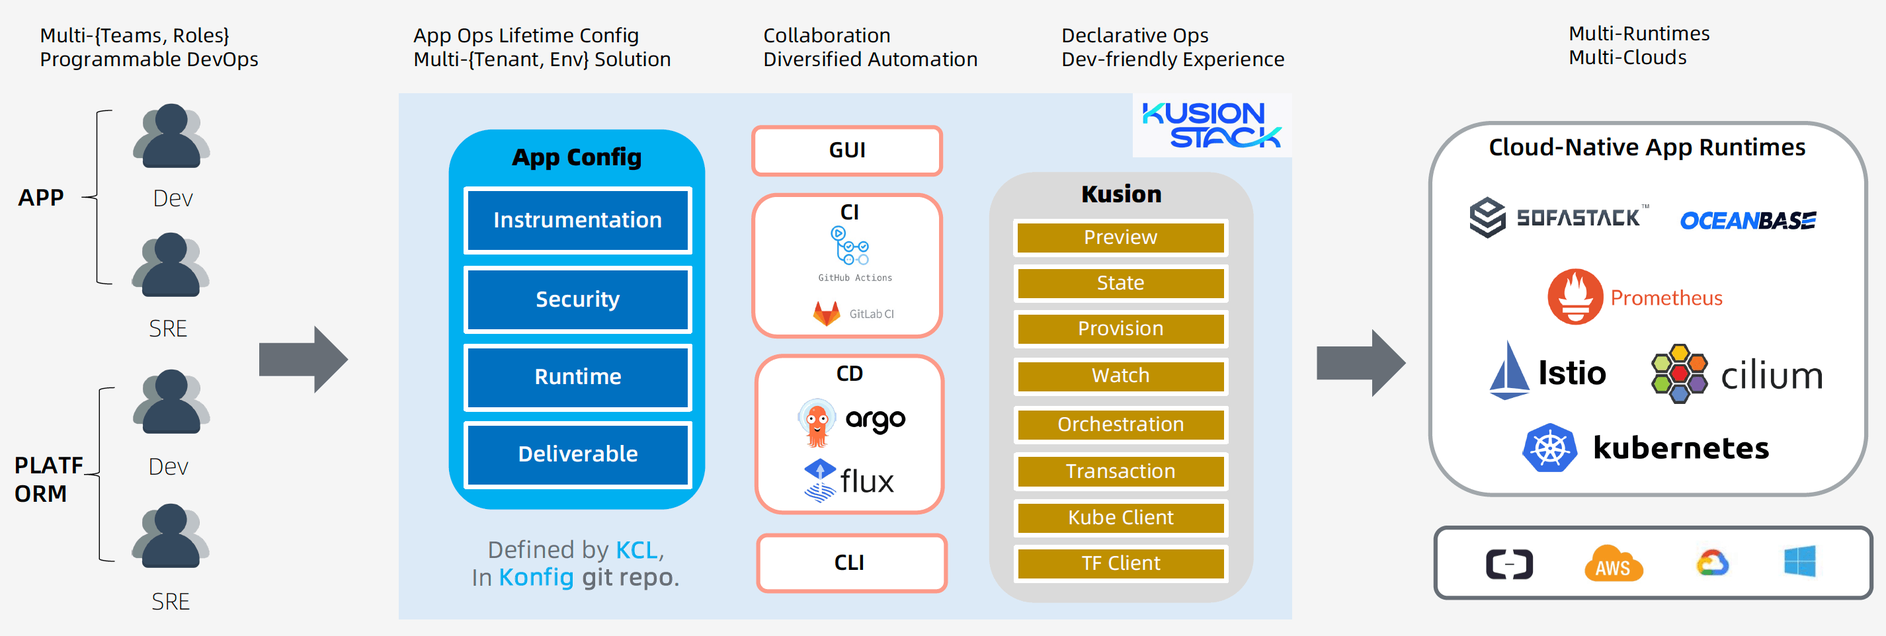
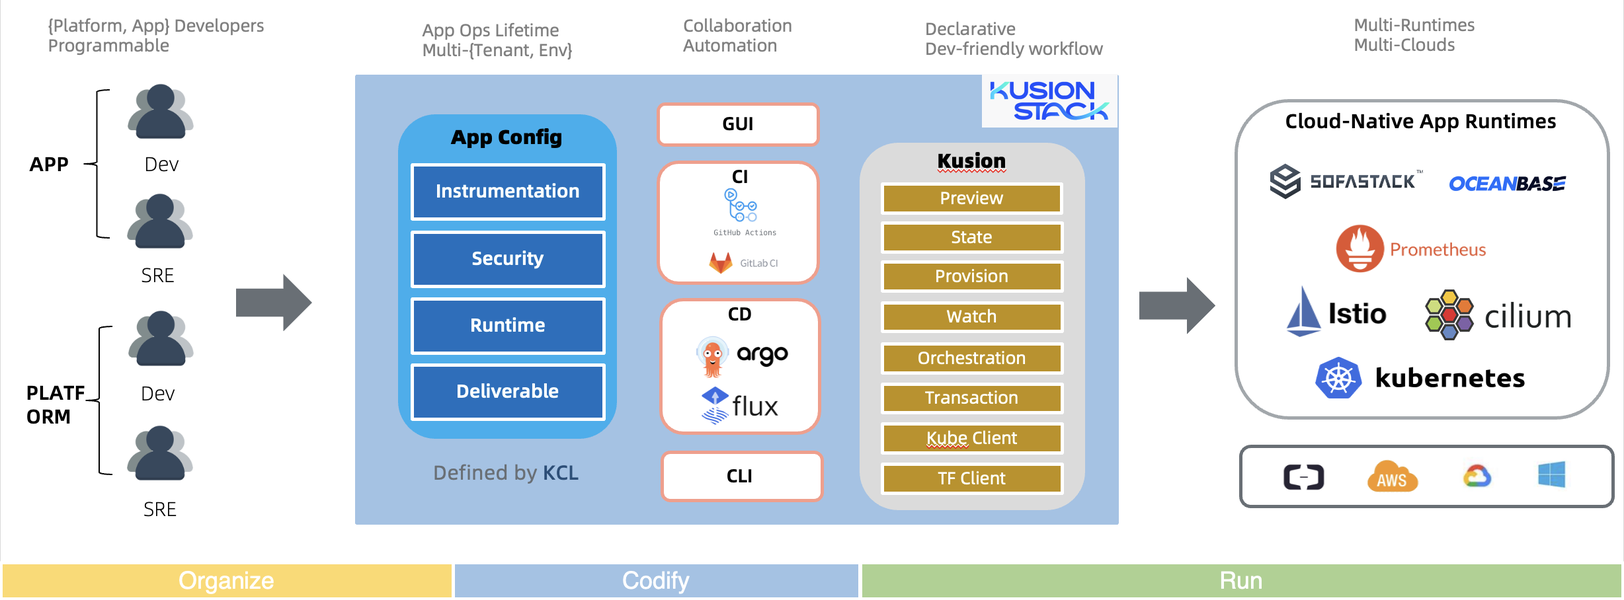
docs: polish kusion-intro.md

diff --git a/docs/user_docs/intro/kusion-intro.md b/docs/user_docs/intro/kusion-intro.md
@@ -5,142 +5,103 @@
 
 **KusionStack is an open-source cloud-native programmable technology stack!**
 
-KusionStack is a highly flexible programmable technology stack to enable unified application delivery and operation, inspired by the word Fusion, which aims to help enterprises build an application-centric configuration management plane and DevOps ecosystem.
+KusionStack is a highly flexible programmable technology stack to enable unified app delivery, inspired by the phrase 'Fusion on the Kubernetes', which aims to help enterprises build a config-based and self-service platform based on cloud-native technology for developers. 
 
-1. Fusion of hybrid scenarios of **private cloud**, **hybrid cloud**, and **multi-cloud** 
-2. Fusion of hybrid platform technologies of **cloud-native** and a variety of other platform technologies
-3. Fusion of enterprise-level demands of **multi-project**, **multi-team**, **multi-role**, **multi-tenant**, and **multi-environment**
+To put it simply, KusionStack aims to help developers:
 
-Based on the concept of Platform as Code, developers can quickly unify the full configuration schemas, constraints, policies and configs across the application life cycle, work with the **hybrid technologies and cloud environment**, go through the **end-to-end workflow** from programming to launching, and truly achieve **write once, deliver anywhere**.
+1. **Codify** and **unify** configurations and policies around a modern app delivery along with an OCI image
+2. **Organize** application's resources and ensure secure access by **identities** throughout the entire delivery process
+3. Streamline app delivers workflow to **Kubernetes** and **clouds** with a dev-friendly experience
+
+Based on the concept of Platform as Code, developers could define the app delivery life cycle with a **unified organized and operate interface**, fully leverage the **hybrid capability of Kubernetes and cloud**, go through the **end-to-end delivery workflow**, and truly achieve the **centralized definition, arbitrary delivery**.
 
 ![](/img/docs/user_docs/intro/kusion-stack-0.png)
 
-KusionStack originated from the large-scale platform engineering practice within Ant Group and has been widely used in Ant Group's SaaS application delivery, computing and data infrastructure delivery, site construction, database operation and other operation scenarios, helping Ant Group to complete upgrades from the traditional operation model to the programmable and collaborative DevOps model.
 
+## What can be done with KusionStack?
 
-## Why develop KusionStack？
+We have two perspectives to perceive the value of KusionStack.
 
-Represented by Kubernetes, Cloud-native technology is becoming the first-party technology for modern enterprises and cloud vendors and has formed a global community ecology. Kubernetes supports an API definition mechanism that is final-state, data-oriented, a definition and extension mechanism which is declarative, versioned, resource-schema-oriented, and a server-side verification and simulation mechanism which is terminable and predictable. These excellent designs make it naturally have consistent API access mechanisms, perfect resource definition and extension capabilities, and client-friendly verification and execution mechanisms, natively possessing the typical capabilities of traditional third-party API access technology. But from another point of view, modern applications will also rely on non-cloud-native PaaS and IaaS services for a long time, which makes the application delivery and operation in the enterprise rely on scattered and changing technologies and platforms, and complex and fragmented working interfaces and processes. In addition, Kubernetes is a platform for building platforms. For non-expert application developers, the technical complexity of Kubernetes itself and a growing number of resource-oriented user interfaces restrict the construction of a broader DevOps ecosystem openly and democratically within the enterprise. Finally, there is a lack of effective means on the platform side to open growing platform capabilities to application developers in a simple, unified and manageable manner, and to reduce the cognitive burden of application developers through high app-oriented abstraction, enabling them to complete app delivery and operation in a self-service way.
+As an out-of-box product, KusionStack helps to:
++ **Config** your app with an app-centric model above Kubernetes and cloud resources
++ **Deliver** your app with dev-friendly tools and IDE products to Kubernetes and clouds
 
-At Ant Group, we have experienced all the above problems. We have built large-scale [Bare Metal](https://en.wikipedia.org/wiki/Bare-metal_server) Kubernetes clusters, a large-scale service mesh system based on [MOSN](https://github.com/mosn/mosn) sidecar, but also rely heavily on PaaS services such as middleware and some IaaS cloud services. In the field of operation, we have made many attempts to adapt to scale, complexity and rapid changes, such as using cloud-native tools to improve the classic ops platforms, such as adopting the Kubernetes community's native YAML-based DevOps solution, but none of them can meet the needs of internal application-centric, high-efficiency, low-awareness, and taking account of the open, flexible, scalable, and portable large-scale delivery and operation requirements.
+As an engineering stack, KusionStack helps to:
++ **Build** your apps' abstraction models with the **collaboration** of multiple roles 
++ **Orchestrate** your automation workflow to **hybrid** resources across Kubernetes and clouds
++ **Integrate** into your homegrown or public systems
 
 ![](/img/docs/user_docs/intro/kusion-stack-1.png)
 
 
-## Why use KusionStack?
+## KusionStack Highlights
 
-KusionStack fusions platform developers, application developers and [SRE](https://en.wikipedia.org/wiki/Site_reliability_engineering) with the platform engineering concept, through a one-stop technology stack targeting "modeling on platforms, compile to cloud". KusionStack enables the platform developers to open platform capabilities simply and flexibly, allowing application developers to design app-centric abstraction, reduce the cognitive burden on infrastructure, as well as give them sufficient flexibility. Overall, KusionStack, like other as-Code technologies, provides the convenience of **versioned**, **auditable**, **reusable**, **replayable** and **sharable**, and at the same time KusionStack is committed to building **application-centric abstraction**, **consistent management tools and automation mechanisms** as well as **simpler end-to-end user experience and workflow**, hoping to approach the state:
+**App-centric**
+App is the first-class citizen of KusionStack. KusionStack provides an out-of-the-box **app delivery model** based on best practices and also supports customizing your application models. With the simple application model definition, KusionStack provides sufficient automation support to help developers turn the blueprint into reality.
 
-+ Fusion of **platform technologies**: With a variety of cloud-native and non-cloud-native technologies and services, the application operation life cycle is modeled and configured based on differentiated PaaS and IaaS APIs. Shipping with the container image, applications can be configured in one place and delivered anywhere.
-+ Fusion of  **multiple roles**: Help the platform and application developers break the boundaries and go forward together with each other, through the engineering way of "platform developers produce the base models, and the application developers define their application model and configs", the division of labor and collaboration jointly form a DevOps system around application delivery.
-+ Fusion of **workflow**: For diverse operation scenarios, based on scalable project structure and programming support, the typical end-to-end workflow includes the development phase: manual or automatic code modification, testing, commit, PR submission and review; CI phase: integration testing and deployment verification; CD phase: runtime-oriented preview, apply, observation, etc.
-+ Fusion of **operation methods**: Adopt platform-based CI, CD, and CDRA capabilities to form an end-to-end GitOps solution, and also provide toolchains, service APIs, and GUI products, which can be supplied on demand and used flexibly, taking account of the needs of internal private clouds, external hybrid clouds and multi-cloud scenarios, gradually replace fragmented products with a set of cohesive solutions.
-+ Fusion of **technical concepts**: Create more possibilities in terms of diverse platform technologies and roles through open operation concepts, culture and open source technologies.
+**Flexible**
+Based on the self-developed programming language **KCL**, the powerful engine and a variety of extensible mechanisms, KusionStack provides full flexibility for developers undertaking ops work. KusionStack can meet the needs of individual developers, small teams and large groups with the good scalability and manageability through the standard **project** and **stack** structures. The pure client-side solution also ensures good portability and the rich APIs make it easier to integrate and automate. 
+
+**Collaborative**
+In addition to the general advantages of as-code solutions, KusionStack hopes to help to define the application model with the platform team and application team collaboratively. With the **separation of concerns**, different roles could focus on their work based on their knowledge and responsibility. Through such a division of labor, the platform team can better manage the differences and complexities of the platform, and app developers could participate in ops work with less cognitive load.
 
 
-## Composition of KusionStack
+## KusionStack Composition
 
-KusionStack fusions the platform and the application developers through the platform engineering concept, technology and workflow to achieve a balance between platform capability openness and application self-service operation efficiency. KusionStack builds a programmable, extensible, and portable technology stack based on language and toolchains. Its core components include:
+KusionStack consists of a series of tools and products. Among them, KCL provides programmability similar to modern programming languages, Kusion turns blueprints into reality with powerful engines and orchestration capabilities, and Konfig holds app delivery models and components. You can choose to use one of them, such as KCL, or use them in combination.
 
 + [KCL](https://github.com/KusionStack/KCLVM): Configuration and policy programming language for application developers, along with its protocols, toolchains and IDE plugins
-+ [Kusion](https://github.com/KusionStack/kusion): Operation engine, toolchains, service, IDE workspace and community technology integration suite
-+ [Konfig](https://github.com/KusionStack/konfig): Shared repository of application models and base models, and CI suite for GitOps workflows (such as GitHub Actions suite)
-
-It can also be divided from the perspective of the language protocol layer, operation capability layer, and user interface layer, as shown in the following figure:
-
-![](/img/docs/user_docs/intro/kusion-arch.png)
-
-
-## KusionStack core features
-
-**Flexible organization, modeling on demand**
-
-KusionStack works in a pure client-side way, through the simple engineering way of directories and files, provides a scalable engineering structure based on **project** and **stack** design and supports flexible management of the on-demand organization. Developers can write **configuration (config)**, **type (schema)**, **function (lambda)** and **policy (rule)** through the record and functional language KCL. KusionStack provides an out-of-the-box cloud-native application model, allowing users to quickly start the journey of cloud-native delivery. In addition, KusionStack is not limited to a single, fixed model or standard. Developers can write base models and application models through KCL's modular language features, which helps the platform side quickly reveal capabilities through "building blocks", and application developers can define application models as needed. Finally, KusionStack meets the multi-tenant and multi-environment configuration writing requirements in the enterprise through isolated configuration blocks with rich auto merging strategies. KusionStack helps enterprises flexibly respond to complex scenarios and rapid changes.
-
-**Write once, deliver anywhere**
-
-KusionStack helps application developers centrally converge the full configuration around their application, and deliver the application to the private cloud, hybrid cloud, and multi-cloud environment through the simple method of "container image with KCL code". End users work with abstract application models, which are automatically interpreted by renders for different runtimes at different platforms and generate low-level resource models at compile time. At execution time, the Kusion engine applies and manages hybrid resources of various runtimes including Kubernetes and Terraform. The Kusion engine natively supports multi-cluster resource management and manages non-Kubernetes resources by integrating Terraform. Finally, KusionStack natively supports automation mechanisms such as command line execution, CI pipelines, service (to be open-source) APIs, and GUI product (to be open-source), and can meet any delivery needs through flexible automation solutions.
-
-**Enterprise practice, ecological integration**
-
-Relying on the accumulation of practice within Ant Group, KusionStack provides an end-to-end workflow from development to delivery on Platform APIs:
-
-1. Platform integration: Self-generate KCL schema code through the [KCL-OpenAPI](https://github.com/KusionStack/kcl-openapi) tool
-2. Dev assistance: Rapid development and testing through KCL IDE plug-ins, lint, vet, compile, test tools
-3. CI pipelines: Accurate dependency analysis and automated integration test through KCL dep and test tools
-4. CD execution: Use the KusionCtl tool to implement authentication, RBAC permission configuration, and the workflow of preview, apply, observe, and destroy
-
-In addition, KCL provides CRUD APIs, multi-language SDK and a dynamic plugin expansion mechanism to meet the personalized automation needs in the enterprise. KusionStack will continue to improve the extensibility and integrate with more community technologies.
-
++ [Kusion](https://github.com/KusionStack/kusion): Operation engine, toolchains, service, IDE workspace
++ [Konfig](https://github.com/KusionStack/konfig): Shared repository of application models and components, and CI suite for GitOps workflows (such as GitHub Actions suite)
 
 ## KusionStack vs. X
 
-KusionStack is a pure client-side cloud-native programmable technology stack, which aims to define an application-centric abstract interface and an end-to-end management mechanism. Compared with other technologies, its characteristics can be summarized as:
-
-+ **Application-centric**: Meet the abstraction and definition requirements of differentiated application models
-+ **Pure client solution**: Lightweight, extensible, flexible, and portable
-+ **Hybrid resources and cloud**: Provides resource abstraction and management functions on multi-runtime and multi-cloud
-+ **Highly automatable**: Provide rich APIs, SDK, and extension mechanisms to meet the automation needs of developers and platforms
+KusionStack is a pure client-side programmable technology stack, which aims to define an app-centric delivery model and an end-to-end automation workflow.
 
 ![](/img/docs/user_docs/intro/kusion-vs-x.png)
 
-KCL is a modern high-level domain language, which is a compiled, static and strongly typed language. It provides developers with the ability to write configuration (config), modeling abstraction (schema), business logic (lambda), and environmental policies (rule) as the core elements through recording and functional language design. 
-
-KCL tries to provide runtime-independent programmability and does not natively provide system functions such as threads and IO, but supports functions for cloud-native operation scenarios, and tries to provide stable, secure, low-noise, low-side effect, easy-to-automate and easy-to-govern programming support for solving domain problems.
-
-Unlike client runtime written in GPL, KCL programs usually run and generate low-level data and are integrated into the client-side runtime access tools (such as KusionCtl), which can provide a left-shifted stability guarantee by testing and validation of KCL code separately before pushing to runtime. KCL code can also be compiled into a wasm module, which could be integrated into the server runtime after full testing. 
-
-![](/img/docs/user_docs/intro/kcl.png)
-
-KusionStack provides an operation engine and API layer that is completely decoupled from KCL, which is designed to work with hybrid resources. Kusion Engine natively supports full usage of the Kubernetes API machinery, which supports 3-way runtime diff-based preview, runtime dry-run and other necessary Kubernetes management capabilities. For non-Kubernetes control planes (such as IaaS APIs) KusionStack integrates the Terraform toolchain to complete automated management and treats Terraform as a resource runtime provision tool.
-
-![](/img/docs/user_docs/intro/kusion-engine.png)
-
 **vs. Terraform**
 
-Terraform is a programmable operation product widely used in cloud resource delivery scenarios. It uses the code block written in the dynamic interpreted language HCL as the entry to interpret and drive the engine and provider framework. With its well-designed and unique API access mechanism, it reduces the difficulty of using imperative APIs of various cloud vendors and provides a good declarative operation experience with a concise workflow. 
+Terraform is a programmable operation product widely used in cloud resource delivery scenarios. It helps operators access different cloud APIs easily with programmable resource blocks, state management, and API providers. Terraform reduces the difficulty of using imperative APIs of various cloud vendors and provides a good declarative operation experience with a concise workflow. 
 
-Compared with the declarative language for the ops team, KCL is designed for application developers with modern programming abilities around application models, business logic and environmental rules. KusionStack natively supports full usage of the Kubernetes API machinery capabilities without writing providers，and uses Terraform to manage non-Kubernetes resources. KusionStack is more suitable for large-scale scenarios, providing rich large-scale functionalities and faster automation performance.
+In contrast, KusionStack attempts to help developers work with an abstract app delivery model and also makes it easier for different roles to collaborate to build and manage the abstraction. KusionStack natively supports scalability, automation, and high performance for enterprise-level requirements. KusionStack works in a Kubernetes-first way and leverages Terraform to manage non-Kubernetes resources.
 
 **vs. Pulumi**
 
-Pulumi is a programmable technology stack that combines a GPL(general purpose language) SDK and the Terraform technology framework. In terms of programming capabilities, Pulumi provides well-designed multi-language client SDKs written in GPL and fully implements a Terraform-like engine and Provider framework.
+Pulumi is a programmable technology stack that combines a GPL(general purpose language) SDK and the Terraform technology framework. In terms of programming capabilities, Pulumi provides well-designed multi-GPL client SDKs and fully builds a Terraform-like engine and Provider framework.
 
-Based on the classic C/S model, Pulumi provides a development mechanism for client runtime. The client runtime directly accesses the server runtime, and transforms as well as reuses the Terraform providers ecosystem through the self-developed engine and provider framework. In contrast, KusionStack provides a runtime-independent development mechanism with a better client-side stability guarantee and Kubernetes API machinery affinity. Pulumi eliminates the cost of language learning, but the GPL is overkill, and noise, side effects, stability problems, security problems and governance costs are unavoidable problems, while KusionStack provides a domain-oriented language and technology stack, which has a certain learning cost but is more suitable for use in large-scale scenarios.
+KusionStack tries to provide a coding method with low noise, low side effects, limited functions, and easy automation and governance, while GPL is overkill and difficult to automate and govern uniformly. In addition, Pulumi helps users write a client-side runtime to access the server, while KusionStack allows users to write runtime-independent config, constraints, and policies, thereby bringing better left-shift stability. From a technical point of view, KusionStack works in a Kubernetes-first way and leverages Terraform to manage non-Kubernetes resources.
 
 **vs. CD systems (eg KubeVela, ArgoCD)**
 
-CD systems are usually sourced in some declarative format, and complete automated delivery and configuration drift reconciliation through Pull, Push, or the combination of Pull & Push. The Kusion engine can be regarded as a CD engine implementation in the push mode. If you have adopted the CD system, KusionStack can be used with it, such as reconciling KCL definitions through ArgoCD, or using KusionCtl with KubeVela, etc.
+CD systems are usually sourced in some declarative format and complete automated delivery and configuration drift reconciliation through Pull, Push, or the combination of Pull & Push. The Kusion engine can be regarded as a CD engine implementation in the push mode. If you have adopted a CD system, KusionStack can be integrated with it, such as reconciling KCL code through ArgoCD or writing codify OAM model and running with KubeVela, etc.
 
 **vs. Helm**
 
-The concept of Helm originates from the package management mechanism of the operating system. It is a package management tool based on templated YAML files and supports the execution and management of resources in the package. KusionStack naturally provides a superset of Helm capabilities, so that you can use KusionStack directly as an alternative. For users who have adopted Helm, the stack compilation results in KusionStack can be packaged and used in Helm format.
+The concept of Helm originates from the package management mechanism of the operating system. It is a package management tool based on templated YAML files and supports the execution and management of resources in the package. KusionStack naturally provides a superset of Helm capabilities with the modeled key-value pairs, so that developers can use KusionStack directly as a programable alternative to avoid the pain of writing text templates. For users who have adopted Helm, the stack compilation results in KusionStack can be packaged and used in Helm format.
 
 **vs. OAM**
 
-OAM is an open-source open application model specification. It is mainly used in the cloud-native CD control plane KubeVela, and is usually implemented by cloud-native technology CRD and operator and supports any custom resource as a payload. KusionStack provides an out-of-the-box application model, and can also act as a technology carrier for implementing the OAM model definition on the client side as well as be used in combination with KubeVela.
+OAM is a standard, open-source open application model specification. It is mainly used in the cloud-native CD control plane KubeVela and is implemented by cloud-native technology CRD and operator and supports any custom resource as a payload. KusionStack provides an out-of-the-box application model, as well as allows developers to define different app delivery models according to their preferences. KusionStack could also act as a means of implementing the OAM model on the client side as well as be used in combination with KubeVela.
 
 **vs. CrossPlane**
 
-CrossPlane is an open-source cloud-native control plane framework that redefines, reconciles, and manages imperative APIs with the extension and technical means of the Kubernetes API machinery specification, while in terms of API access, KusionStack adopts a client-side approach to provide unified resource abstraction, natively provides a working mechanism for Kubernetes API machinery, and manages non-Kubernetes resources by integrating and reusing Terraform capabilities. KusionStack does not force the redefinition in the Kubernetes API server and reduces the pressure on the Kubernetes API extension mechanism in large-scale scenarios. Since KusionStack natively supports full usage of the Kubernetes API machinery capabilities, it can be used seamlessly with CrossPlane.
+CrossPlane is an open-source cloud-native control plane framework, with its XRM model based on the KRM model, that redefines, reconciles, and manages imperative cloud APIs, fully leveraging the advantages of Kubernetes API extension. KusionStack adopts a lightweight client-side approach to build a unified app delivery model, natively providing better scalability and manageability. KusionStack does not require CRDs and operators installation on the Kubernetes API server which reduces the pressure on the Kubernetes API side in large-scale scenarios. Since KusionStack natively supports full usage of the Kubernetes API server capabilities, it can be used in combination seamlessly with CrossPlane.
 
 **vs. Kubernetes**
 
-Kubernetes is a container scheduling and management runtime widely used around the world, an "operating system" for containers, and a platform for building platforms. On the Kubernetes API layer, KusionStack aims to provide **abstract**, **management** methods, better **user experience** and **workflow** for various operational needs, and provides capabilities to help developers complete application delivery and operation more easily:
-
-+ KCL: backward compatible with YAML specification, YAML can be used as a downstream static data format
-+ KCL-OpenAPI tool: Native OpenAPI, CRD specification support, support for automatic generation of KCL schema code
-+ Konfig repository: Provides base models based on Kubernetes, Prometheus and other cloud-native technologies, and also an out-of-the-box application model
-+ Kusion: Provide Kubernetes-oriented login, RABC, sensitive information management, 3-way preview, apply, observe, destroy, etc
+Kubernetes is a container scheduling and management runtime widely used around the world, an "operating system" core for containers, and a platform for building platforms. Above the Kubernetes API layer, KusionStack aims to provide app-centric **abstraction** and unified **workspace**, better **user experience** and automation **workflow**, and helps developers build the app delivery model easily and collaboratively.
 
 **vs. App PaaS**
 
-Compared with application deployment and operation products or platforms, KusionStack is a client-side programmable technology stack, which provides technical components, automated support and recommended workflows. Based on solid practices within Ant Group, it can meet the demands of the enterprise-level application operation. KusionStack can be used as the basis of the application PaaS, in which the Konfig repository can become its programmable interface, business layer and external workspace.
+Compared with application delivery products or platforms, KusionStack is a client-side programmable technology stack, which is not a complete App PaaS. KusionStack's products can be used as part of App PaaS, or as the basis for building your App PaaS as a platform engineering solution.
 
 
 ## Development status
 
-KusionStack is at an early stage of open source. You can check the release versions of [Kusion](https://github.com/KusionStack/kusion/releases) and [KCLVM](https://github.com/KusionStack/KCLVM/releases) here, and are also welcome to join us via [Community](https://github.com/KusionStack/community).
+KusionStack is at an early stage of open source. We will continue to focus on providing a better and more usable **application delivery model**, supporting **multiple clusters** and more **clouds**, and natively providing **identity** and **resource** management mechanisms.
+
+You can check out the release versions of [Kusion](https://github.com/KusionStack/kusion/releases) and [KCLVM](https://github.com/KusionStack/KCLVM/releases) and are also welcome to join us via [Community](https://github.com/KusionStack/community).
 
 
 ## Next step
